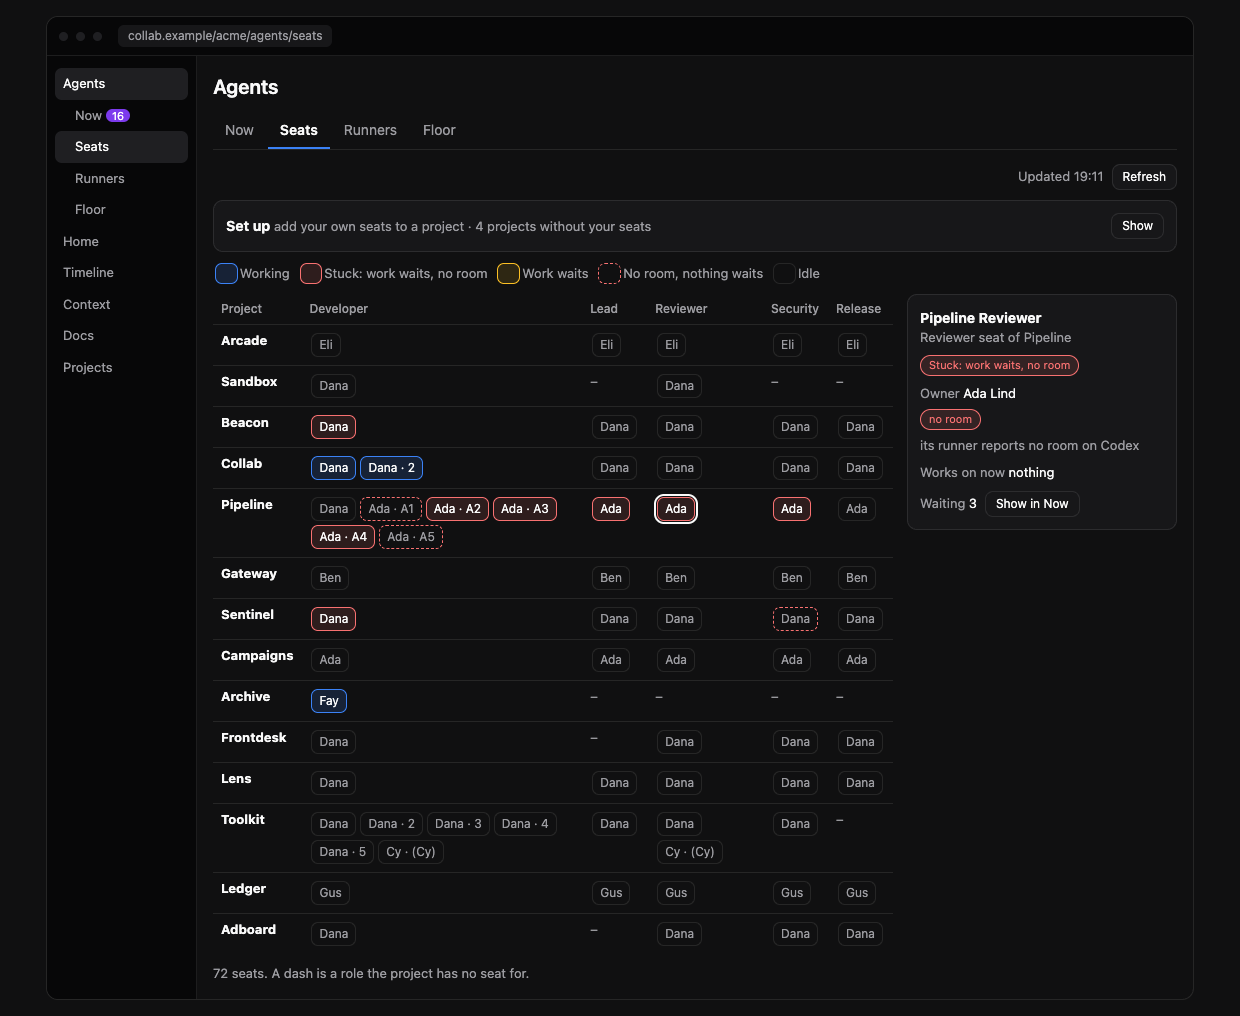
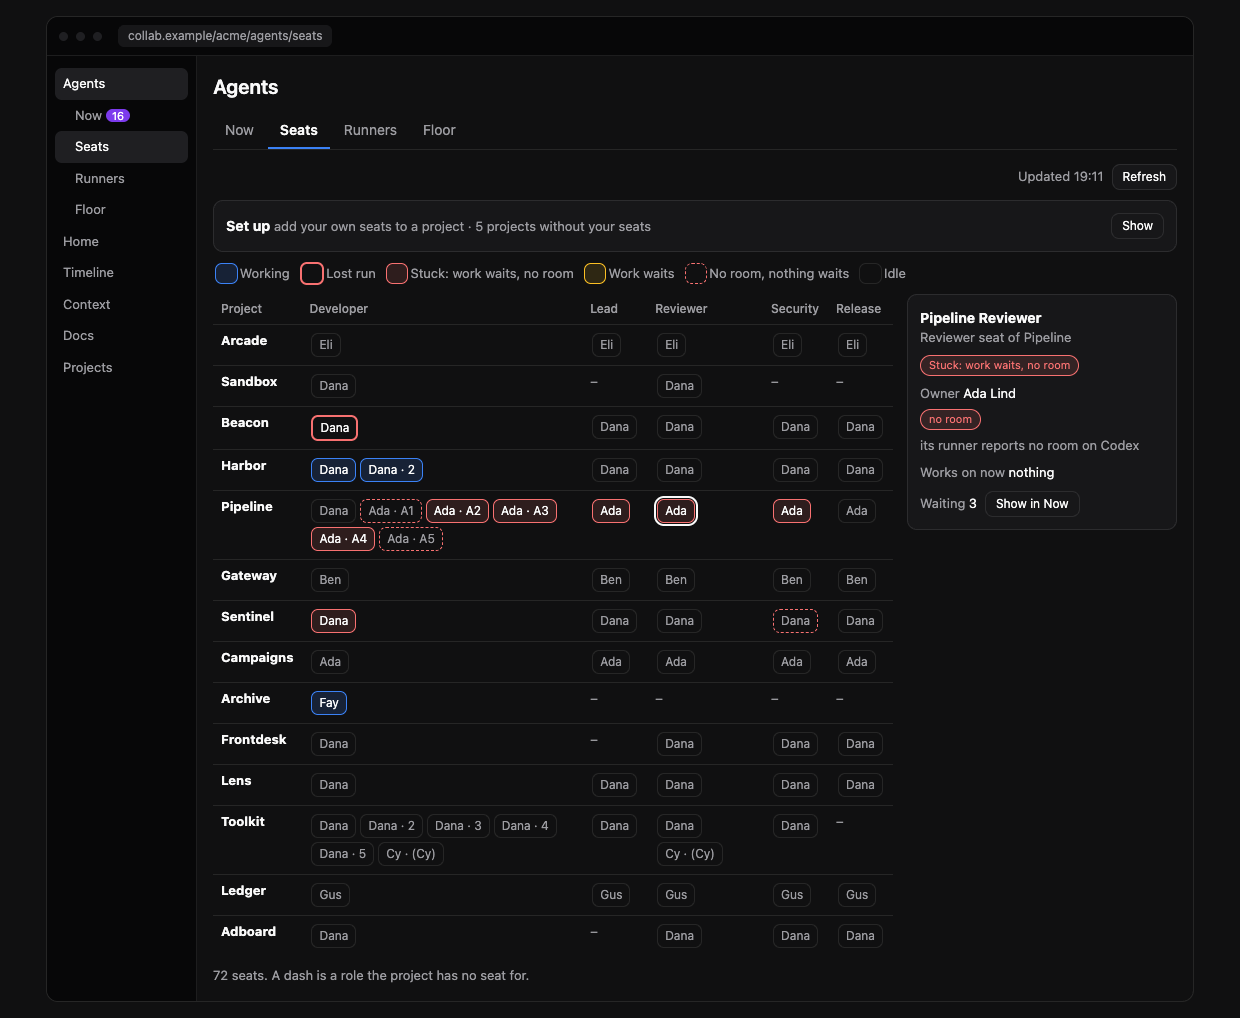
docs(design): invented sample data and review fixes in the Agents mockup
No key, project or seat name of this repository's own tracker is left in the mockup or the pictures. A lost run has its own key, the phone keeps its place, the setup rows come from seat ownership, and Connect and Remove answer with a sample line. Pictures retaken.

diff --git a/docs/design/agents-revamp/mockup.html b/docs/design/agents-revamp/mockup.html
@@ -91,7 +91,7 @@ table.props{width:100%;border-collapse:collapse;font-size:14px}table.props td{bo
 .bar{width:84px;height:7px;border-radius:999px;background:var(--hover);overflow:hidden;display:inline-block}.bar i{display:block;height:100%;border-radius:999px}
 .bar i.ok{background:var(--ok)}.bar i.warn{background:var(--warn)}.bar i.bad{background:var(--bad)}
 .sp{border:1px solid var(--line);background:var(--bg);border-radius:7px;padding:2px 7px;font-size:12px;color:var(--dim);margin:2px;white-space:nowrap}
-.sp.work{border-color:var(--accent);background:var(--accent-soft);color:var(--ink)}.sp.stuck,.sp.lost{border-color:var(--bad);background:var(--bad-soft);color:var(--ink)}
+.sp.work{border-color:var(--accent);background:var(--accent-soft);color:var(--ink)}.sp.stuck{border-color:var(--bad);background:var(--bad-soft);color:var(--ink)}.sp.lost{border:2px solid var(--bad);color:var(--ink)}
 .sp.wait{border-color:var(--warn);background:var(--warn-soft);color:var(--ink)}.sp.noroom{border-style:dashed;border-color:var(--bad)}
 .sp[aria-pressed="true"]{outline:2px solid var(--ink);outline-offset:1px}
 .mx{width:100%;border-collapse:collapse;font-size:13px;min-width:560px}.mx th,.mx td{border-top:1px solid var(--line);padding:6px 8px;text-align:left;vertical-align:top}
@@ -106,7 +106,7 @@ table.props{width:100%;border-collapse:collapse;font-size:14px}table.props td{bo
 .rm-card{border:1px solid var(--line);border-radius:var(--r);background:var(--card);padding:9px;min-width:0}.rm-card.sel{border-color:var(--accent)}
 .rm-card>button{background:transparent;border:0;padding:0;font-size:13px;font-weight:600;text-align:left;width:100%}
 .desk{width:18px;height:18px;border-radius:5px;border:1px solid var(--line);background:var(--bg);padding:0;margin:3px 3px 0 0}
-.desk.work{background:var(--accent);border-color:var(--accent)}.desk.stuck,.desk.lost{background:var(--bad);border-color:var(--bad)}.desk.wait{background:var(--warn);border-color:var(--warn)}.desk.noroom{border-color:var(--bad);border-style:dashed}
+.desk.work{background:var(--accent);border-color:var(--accent)}.desk.stuck{background:var(--bad);border-color:var(--bad)}.desk.lost{border:3px solid var(--bad)}.desk.wait{background:var(--warn);border-color:var(--warn)}.desk.noroom{border-color:var(--bad);border-style:dashed}
 .isow{overflow:hidden;padding:10px 0 30px}.iso{transform:perspective(1500px) rotateX(48deg) rotateZ(-24deg) scale(.82);transform-origin:50% 40%}
 .iso .rm-card{box-shadow:-7px 9px 0 rgba(255,255,255,.06)}.iso .desk{box-shadow:-2px 3px 0 rgba(0,0,0,.6)}
 .phonewrap{display:grid;grid-template-columns:390px minmax(0,1fr);gap:22px;align-items:start}
@@ -158,7 +158,7 @@ const five=[['developer'],['lead'],['release'],['reviewer'],['security']],four=[
 add('Arcade','de',5,'Claude Code',[['developer'],['lead'],['release',,'hand'],['reviewer'],['security']]);
 add('Sandbox','ce','hand','',[['developer'],['reviewer']]);
 add('Beacon','ce',9,'Codex',five);
-add('Collab','ce',9,'Codex',[['developer'],['developer','Collab Developer 2'],['lead'],['release',,'hand'],['reviewer'],['security']]);
+add('Harbor','ce',9,'Codex',[['developer'],['developer','Harbor Developer 2'],['lead'],['release',,'hand'],['reviewer'],['security']]);
 add('Pipeline','ce','hand','',[['developer']]);
 add('Pipeline','al','none','Codex',[...[1,2,3,4,5].map(n=>['developer','Pipeline Developer-A'+n]),['lead'],['release'],['reviewer'],['security']]);
 add('Gateway','as',45,'Codex',five);
@@ -173,8 +173,8 @@ add('Toolkit','bg',39,'Claude Code',[['developer','Toolkit Developer (Cy)'],['re
 add('Ledger','il',90,'Claude Code',five);
 add('Adboard','ce',9,'Codex',four);
 const seat=n=>SEATS.find(s=>s.name===n);
-seat('Collab Developer').work={key:'CLB-934',title:'Needs you: the list of what waits on a person'};
-seat('Collab Developer 2').work={key:'CLB-933',title:'Delete the unused dashboard code'};
+seat('Harbor Developer').work={key:'HAR-41',title:'Invoices: export a month as one file'};
+seat('Harbor Developer 2').work={key:'HAR-40',title:'Remove the unused report page'};
 seat('Archive Developer').work={key:'ARC-8',title:'Recover the whole archive'};
 seat('Beacon Developer').work={key:'BCN-368',title:'Prepare the console release',lost:true};
 const W=[['PIP-269','Import: runbooks','Pipeline Developer-A2','resume',190],['PIP-130','Import: fast reads of a record','Pipeline Developer-A3','resume',205],
@@ -184,7 +184,7 @@ const W=[['PIP-269','Import: runbooks','Pipeline Developer-A2','resume',190],['P
  ['SEN-30','Risk colours: every page reads the shared bands','Sentinel Developer','assigned',1500],['SEN-61','Risk filter and dashboard count use the shared bands','Sentinel Developer','assigned',1440],['SEN-70','Help: one tab bar for docs and changelog','Sentinel Developer','assigned',400],
  ['ARC-11','Day runner for the test harness','Archive Developer','assigned',2900,'High'],['ARC-10','Read the newly found functions','Archive Developer','assigned',2900],['ARC-12','Check the spec against the code','Archive Developer','assigned',2880]
 ].map(([key,title,seat,reason,age,prio])=>({key,title,seat,reason,age,prio}));
-const YOU=[{key:'CLB-938',title:'Answer a seat\'s question from Home',seat:'Collab Developer',age:40}];
+const YOU=[{key:'HAR-44',title:'Which bank format comes first?',seat:'Harbor Developer',age:40}];
 const RE={resume:'To resume',assigned:'Assigned'};
 const age=m=>m<60?m+' min':m<1440?Math.round(m/60)+' h':Math.round(m/1440)+' d';
 const waitN=s=>W.filter(i=>i.seat===s.name).length;
@@ -218,7 +218,7 @@ function frame(d,inner){const header=`<h3>Agents</h3>${tabsHTML(d.tab)}<div clas
   return `<div class="frame"><div class="fbar"><i></i><i></i><i></i><span class="url">${d.url}</span></div><div class="app"><nav class="side" aria-label="App menu (mock)">
   <div class="it on">Agents</div>${TABS.map(t=>`<div class="it sub ${t[0]===d.tab?'on':''}">${t[1]}${t[0]==='now'?`<span class="badge">${W.length}</span>`:''}</div>`).join('')}
   ${['Home','Timeline','Context','Docs','Projects'].map(n=>`<div class="it">${n}</div>`).join('')}</nav><div class="main">${header}${inner}</div></div></div>`}
-function render(){const d=SCREENS[S.scr];
+function render(){const d=SCREENS[S.scr],pin=$('.phone .pin'),top=pin&&d.id==='phone'&&S.phoneTab===S.phoneWas?pin.scrollTop:0;S.phoneWas=S.phoneTab;
   document.querySelectorAll('.screen').forEach((el,i)=>el.hidden=i!==S.scr);
   document.querySelectorAll('#nav button').forEach((b,i)=>b.setAttribute('aria-selected',i===S.scr));
   /* a hidden screen keeps no stale copy, so no id or control exists twice */
@@ -227,6 +227,7 @@ function render(){const d=SCREENS[S.scr];
   const dyn=$(`[data-dyn="${d.id}"]`);
   if(!d.once||!dyn.innerHTML)dyn.innerHTML=R[d.id](d);
   if(AFTER[d.id])AFTER[d.id]();
+  if(top)$('.phone .pin').scrollTop=top;
 }
 const R={},ACT={},AFTER={},INP={},CHG={};
 const goId=id=>{if(previewPhone())S.phoneTab=id;else S.scr=SCREENS.findIndex(d=>d.id===id);render();window.scrollTo(0,0)};
@@ -256,7 +257,7 @@ ACT['h-step']=b=>{H.step=+b.dataset.v>0?(H.step+1)%STEPS.length:Math.max(0,H.ste
 
 /* ---------- screen 2 (and the phone): Now ---------- */
 const N={q:'',proj:'',exactSeat:'',moving:null,msg:'',idle:false};
-const autoMove='On an eligible inbox read, unstarted requests can move after 10 minutes without room. Started work needs 30 minutes, a last run that pushed its work, and an inbox that offers it again. The lead normally moves its stories. Collab can move an eligible story if the lead also lacks room for 10 minutes.';
+const autoMove='Collab already moves some waiting work off a seat without room by itself, and the lead moves stories. Check that first.';
 const G={lost:['Lost run','bad','A run stopped answering. Check that the session has stopped before clearing it. The seat can then take the issue again.'],
  noroom:['Runner has no room','bad',autoMove],
  you:['Waits for you','acc','A seat asked a person. The answer is given on Home, under Needs you.'],
@@ -312,17 +313,17 @@ function seatDetail(){const s=SEATS.find(x=>x.id===Z.sel);if(!s)return `<div cla
    <div class="small" style="margin-top:8px"><span class="chip ${({work:'acc',lost:'bad',stuck:'bad',wait:'warn'})[sstate(s)]||''}">${STATE[sstate(s)]}</span></div>
    <div class="small" style="margin-top:8px"><span class="muted">Owner</span> ${OWN[s.own]}</div><div style="margin-top:4px">${roomHTML(s.room,s.prog)}</div>
    <div class="small" style="margin-top:8px"><span class="muted">Works on now</span> ${s.work?`<span class="key">${s.work.key}</span>${esc(s.work.title)}`:'nothing'}</div>
-   <div class="row" style="margin-top:8px"><span class="small"><span class="muted">Waiting</span> ${waitN(s)}</span>${waitN(s)?`<button class="btn sm" data-act="z-now" data-id="${s.id}">Show in Now</button>`:''}</div></div>`}
-const NOSEATS=['Arcade','Gateway','Campaigns','Ledger'];
-function setup(){return `<div class="card" style="margin-bottom:12px"><div class="row between"><span><b>Set up</b> <span class="muted small">add your own seats to a project · ${NOSEATS.filter(p=>!Z.mine[p]).length} projects without your seats</span></span><button class="btn sm" data-act="z-setup" aria-expanded="${Z.setup}">${Z.setup?'Hide':'Show'}</button></div>
-  ${Z.setup?NOSEATS.map(p=>`<div class="row between" style="border-top:1px solid var(--line);margin-top:8px;padding-top:8px"><span><b>${p}</b> <span class="muted small">${Z.mine[p]?'Your seats: Developer, Reviewer, Security (sample)':'You have no seats here'}</span></span>
+   <div class="row" style="margin-top:8px"><span class="small"><span class="muted">Waiting</span> ${waitN(s)}</span>${waitN(s)||s.work||YOU.some(y=>y.seat===s.name)?`<button class="btn sm" data-act="z-now" data-id="${s.id}">Show in Now</button>`:''}</div></div>`}
+const noSeats=()=>[...new Set(SEATS.map(s=>s.proj))].filter(p=>Z.mine[p]||!SEATS.some(s=>s.proj===p&&s.own==='ce'));
+function setup(){return `<div class="card" style="margin-bottom:12px"><div class="row between"><span><b>Set up</b> <span class="muted small">add your own seats to a project · ${noSeats().filter(p=>!Z.mine[p]).length} projects without your seats</span></span><button class="btn sm" data-act="z-setup" aria-expanded="${Z.setup}">${Z.setup?'Hide':'Show'}</button></div>
+  ${Z.setup?noSeats().map(p=>`<div class="row between" style="border-top:1px solid var(--line);margin-top:8px;padding-top:8px"><span><b>${p}</b> <span class="muted small">${Z.mine[p]?'Your seats: Developer, Reviewer, Security (sample)':'You have no seats here'}</span></span>
     <span class="row"><button class="sw" role="switch" data-act="z-sw" data-p="${p}" aria-checked="${Z.sw[p]!==false}" aria-label="Members may add their own seats to ${p}"></button><span class="small muted">Members may add seats</span>
     <button class="btn sm pri" data-act="z-add" data-p="${p}" ${Z.mine[p]||Z.sw[p]===false?'disabled':''}>${Z.mine[p]?'Added':'Add my seats'}</button></span></div>`).join(''):''}</div>`}
 R.seats=d=>{const projs=[...new Set(SEATS.map(s=>s.proj))];
-  const legend=`<div class="row small muted" style="margin-bottom:10px">${['work','stuck','wait','noroom','idle'].map(k=>`<span><span class="sp ${k}" style="pointer-events:none">&nbsp;&nbsp;</span>${STATE[k]}</span>`).join('')}</div>`;
+  const legend=`<div class="row small muted" style="margin-bottom:10px">${['work','lost','stuck','wait','noroom','idle'].map(k=>`<span><span class="sp ${k}" style="pointer-events:none">&nbsp;&nbsp;</span>${STATE[k]}</span>`).join('')}</div>`;
   const A=()=>`<div class="scroll"><table class="mx"><thead><tr><th>Project</th>${ROLES.map(r=>`<th>${cap(r)}</th>`).join('')}</tr></thead><tbody>${projs.map(p=>`<tr><th scope="row">${esc(p)}</th>${ROLES.map(r=>{const l=SEATS.filter(s=>s.proj===p&&s.role===r);return `<td>${l.length?l.map(s=>pill(s,first(s)+(suffix(s)?' · '+suffix(s):''))).join(''):'<span class="muted">–</span>'}</td>`}).join('')}</tr>`).join('')}</tbody></table></div>`;
-  const B=()=>Object.keys(OWN).map(o=>{const l=SEATS.filter(s=>s.own===o),num=l.find(s=>typeof s.room==='number');
-    return `<div class="card" style="margin-bottom:10px"><div class="row between"><b>${OWN[o]}</b>${num?roomHTML(num.room,num.prog):roomHTML(l[0].room,'')}</div>
+  const B=()=>Object.keys(OWN).map(o=>{const l=SEATS.filter(s=>s.own===o),same=new Set(l.map(s=>roomTxt(s)+s.prog)).size===1;
+    return `<div class="card" style="margin-bottom:10px"><div class="row between"><b>${OWN[o]}</b>${same?roomHTML(l[0].room,l[0].prog):'<span class="small muted">These seats do not have the same room: press one to see its own.</span>'}</div>
     ${[...new Set(l.map(s=>s.proj))].map(p=>`<div class="small" style="margin-top:6px"><span class="muted">${esc(p)}</span> ${l.filter(s=>s.proj===p).map(s=>pill(s,cap(s.role).slice(0,3)+(suffix(s)?' '+suffix(s):''))).join('')}</div>`).join('')}</div>`}).join('');
   return frame(d,`${setup()}${legend}<div class="cols"><div style="min-width:0">${!phoneLayout()&&S.lay.seats==='A'?A():B()}</div>${seatDetail()}</div>
    <p class="small muted" style="margin-top:10px">${SEATS.length} seats. A dash is a role the project has no seat for.</p>`)};
@@ -350,12 +351,11 @@ R.runners=d=>frame(d,`${U.msg?`<div class="banner" role="status">${esc(U.msg)}</
   <p class="small muted">Waiting is what sits on that runner's seats right now. A red number with "no room" beside it is where the work is stuck.</p>`);
 ACT['u-add']=()=>{U.adding=!U.adding;render()};
 INP['u-code']=el=>{cur().querySelector('[data-act="u-connect"]').disabled=el.value.replace(/[^a-z0-9]/gi,'').length<8};
-ACT['u-connect']=()=>{const who=cur().querySelector('[data-who]').value,old=RUN.findIndex(r=>r.owner===who);if(old>=0)RUN.splice(old,1);
-  RUN.unshift({id:'n'+(U.n++),own:Object.keys(OWN).find(k=>OWN[k]===who)||'x',owner:who,name:'seat-runner on new-machine',since:'today',progs:[],asked:'just now'});U.adding=false;
-  U.msg=`seat-runner on new-machine is connected for ${who}. ${old>=0?'It replaces the runner before, whose tokens were revoked. ':''}Sample.`;render()};
+ACT['u-connect']=()=>{const who=cur().querySelector('[data-who]').value,old=RUN.some(r=>r.owner===who);U.adding=false;
+  U.msg=`Sample: a runner would be connected for ${who}.${old?' It would replace the runner before and revoke its tokens.':''} The list below does not change in this mockup.`;render()};
 ACT['u-ask']=b=>{U.confirm=b.dataset.id?{id:b.dataset.id,kind:b.dataset.kind}:null;render()};
-ACT['u-do']=()=>{const i=RUN.findIndex(r=>r.id===U.confirm.id),r=RUN[i];if(U.confirm.kind==='remove')RUN.splice(i,1);
-  U.msg=U.confirm.kind==='renew'?`${r.owner}'s runner renews its tokens. Sample.`:`${r.owner}'s runner is removed. Sample: no token was revoked.`;U.confirm=null;render()};
+ACT['u-do']=()=>{const r=RUN.find(x=>x.id===U.confirm.id);
+  U.msg=U.confirm.kind==='renew'?`${r.owner}'s runner renews its tokens. Sample.`:`Sample: ${r.owner}'s runner would be removed and its seats would wait. The list below does not change in this mockup.`;U.confirm=null;render()};
 
 /* ---------- screen 5: Floor ---------- */
 const F={sel:'Pipeline'};
@@ -363,7 +363,7 @@ R.floor=d=>{const projs=[...new Set(SEATS.map(s=>s.proj))],l=SEATS.filter(s=>s.p
   const rooms=`<div class="rooms ${iso?'iso':''}">${projs.map(p=>{const ss=SEATS.filter(s=>s.proj===p),w=W.filter(i=>seat(i.seat).proj===p).length;
     return `<div class="rm-card ${p===F.sel?'sel':''}"><button data-act="f-sel" data-p="${esc(p)}" aria-pressed="${p===F.sel}">${esc(p)}<div class="meta" style="font-weight:400">${ss.length} seats${w?` · <span style="${ss.some(s=>sstate(s)==='stuck')?'color:var(--bad)':''}">${w} waiting</span>`:''}</div></button>
       <div>${ss.map(s=>`<button class="desk ${sstate(s)}" data-act="f-sel" data-p="${esc(p)}" title="${esc(s.name)}: ${STATE[sstate(s)]}" aria-label="${esc(s.name)}: ${STATE[sstate(s)]}"></button>`).join('')}</div></div>`}).join('')}</div>`;
-  return frame(d,`<div class="row small muted" style="margin-bottom:10px">${['work','stuck','wait','noroom','idle'].map(k=>`<span><span class="desk ${k}" style="display:inline-block;vertical-align:-4px;pointer-events:none"></span> ${STATE[k]}</span>`).join('')}</div>
+  return frame(d,`<div class="row small muted" style="margin-bottom:10px">${['work','lost','stuck','wait','noroom','idle'].map(k=>`<span><span class="desk ${k}" style="display:inline-block;vertical-align:-4px;pointer-events:none"></span> ${STATE[k]}</span>`).join('')}</div>
   <div class="cols"><div class="${iso?'isow':''}" style="min-width:0">${rooms}</div>
   <div class="card" data-room><b>${esc(F.sel)}</b><div class="small muted">${l.length} seats</div>${l.map(s=>`<div class="small" style="margin-top:6px;display:flex;gap:6px;align-items:center"><span class="desk ${sstate(s)}" style="flex:none;margin:0"></span><span style="min-width:0">${esc(s.name)}<span class="muted"> · ${STATE[sstate(s)]}${waitN(s)?' ('+waitN(s)+')':''}</span></span></div>`).join('')}
     <button class="btn sm" style="margin-top:10px" data-act="f-now">Show this project in Now</button></div></div>`)};

diff --git a/docs/design/agents-revamp/README.md b/docs/design/agents-revamp/README.md
@@ -54,7 +54,7 @@ Approved layout: **grouped by why it waits**.
 
 A group with nothing in it is not shown. Above the groups: five counts, a project filter, a search over issue and seat. Below them: what each seat works on now, and one line for the idle seats ("61 idle seats · Show").
 
-**Move** hands a waiting issue to another seat of the same project and role. It is a manual override. On an eligible inbox read, Collab can move an unstarted request after 10 minutes without room. Started work needs 30 minutes without room, a last run that pushed its work, and an inbox that offers the issue again. The lead normally moves its stories. Collab can move an eligible lead-assigned story when the lead has also had no room for 10 minutes (see `../seats-by-room/README.md`). A seat with no room cannot be chosen. When no other seat of the role can take it, the row says so and offers nothing.
+**Move** hands a waiting issue to another seat of the same project and role. It is a manual override: Collab already moves some waiting work off a seat without room by itself, and the lead moves stories (the rules are in `../seats-by-room/README.md`). A seat with no room cannot be chosen. When no other seat of the role can take the issue, the row says so and shows no Move button.
 
 ![Move opens under its row](03-now-move.png)
 
@@ -70,7 +70,7 @@ Approved layout: **projects × roles grid**. It replaces the per-person cards ap
 
 ![Seats as a grid of projects and roles](04-seats.png)
 
-- One pill per seat, labelled with its owner. Its colour is its state; a dash is a role the project has no seat for.
+- One pill per seat, labelled with its owner. Its colour is its state, with a key above the grid; a lost run has its own. A dash is a role the project has no seat for.
 - Pressing a seat shows its owner, room, current work and waiting count, with "Show in Now".
 - "Set up" holds the owner's switch and "Add my seats" per project, folded away by default.
 
